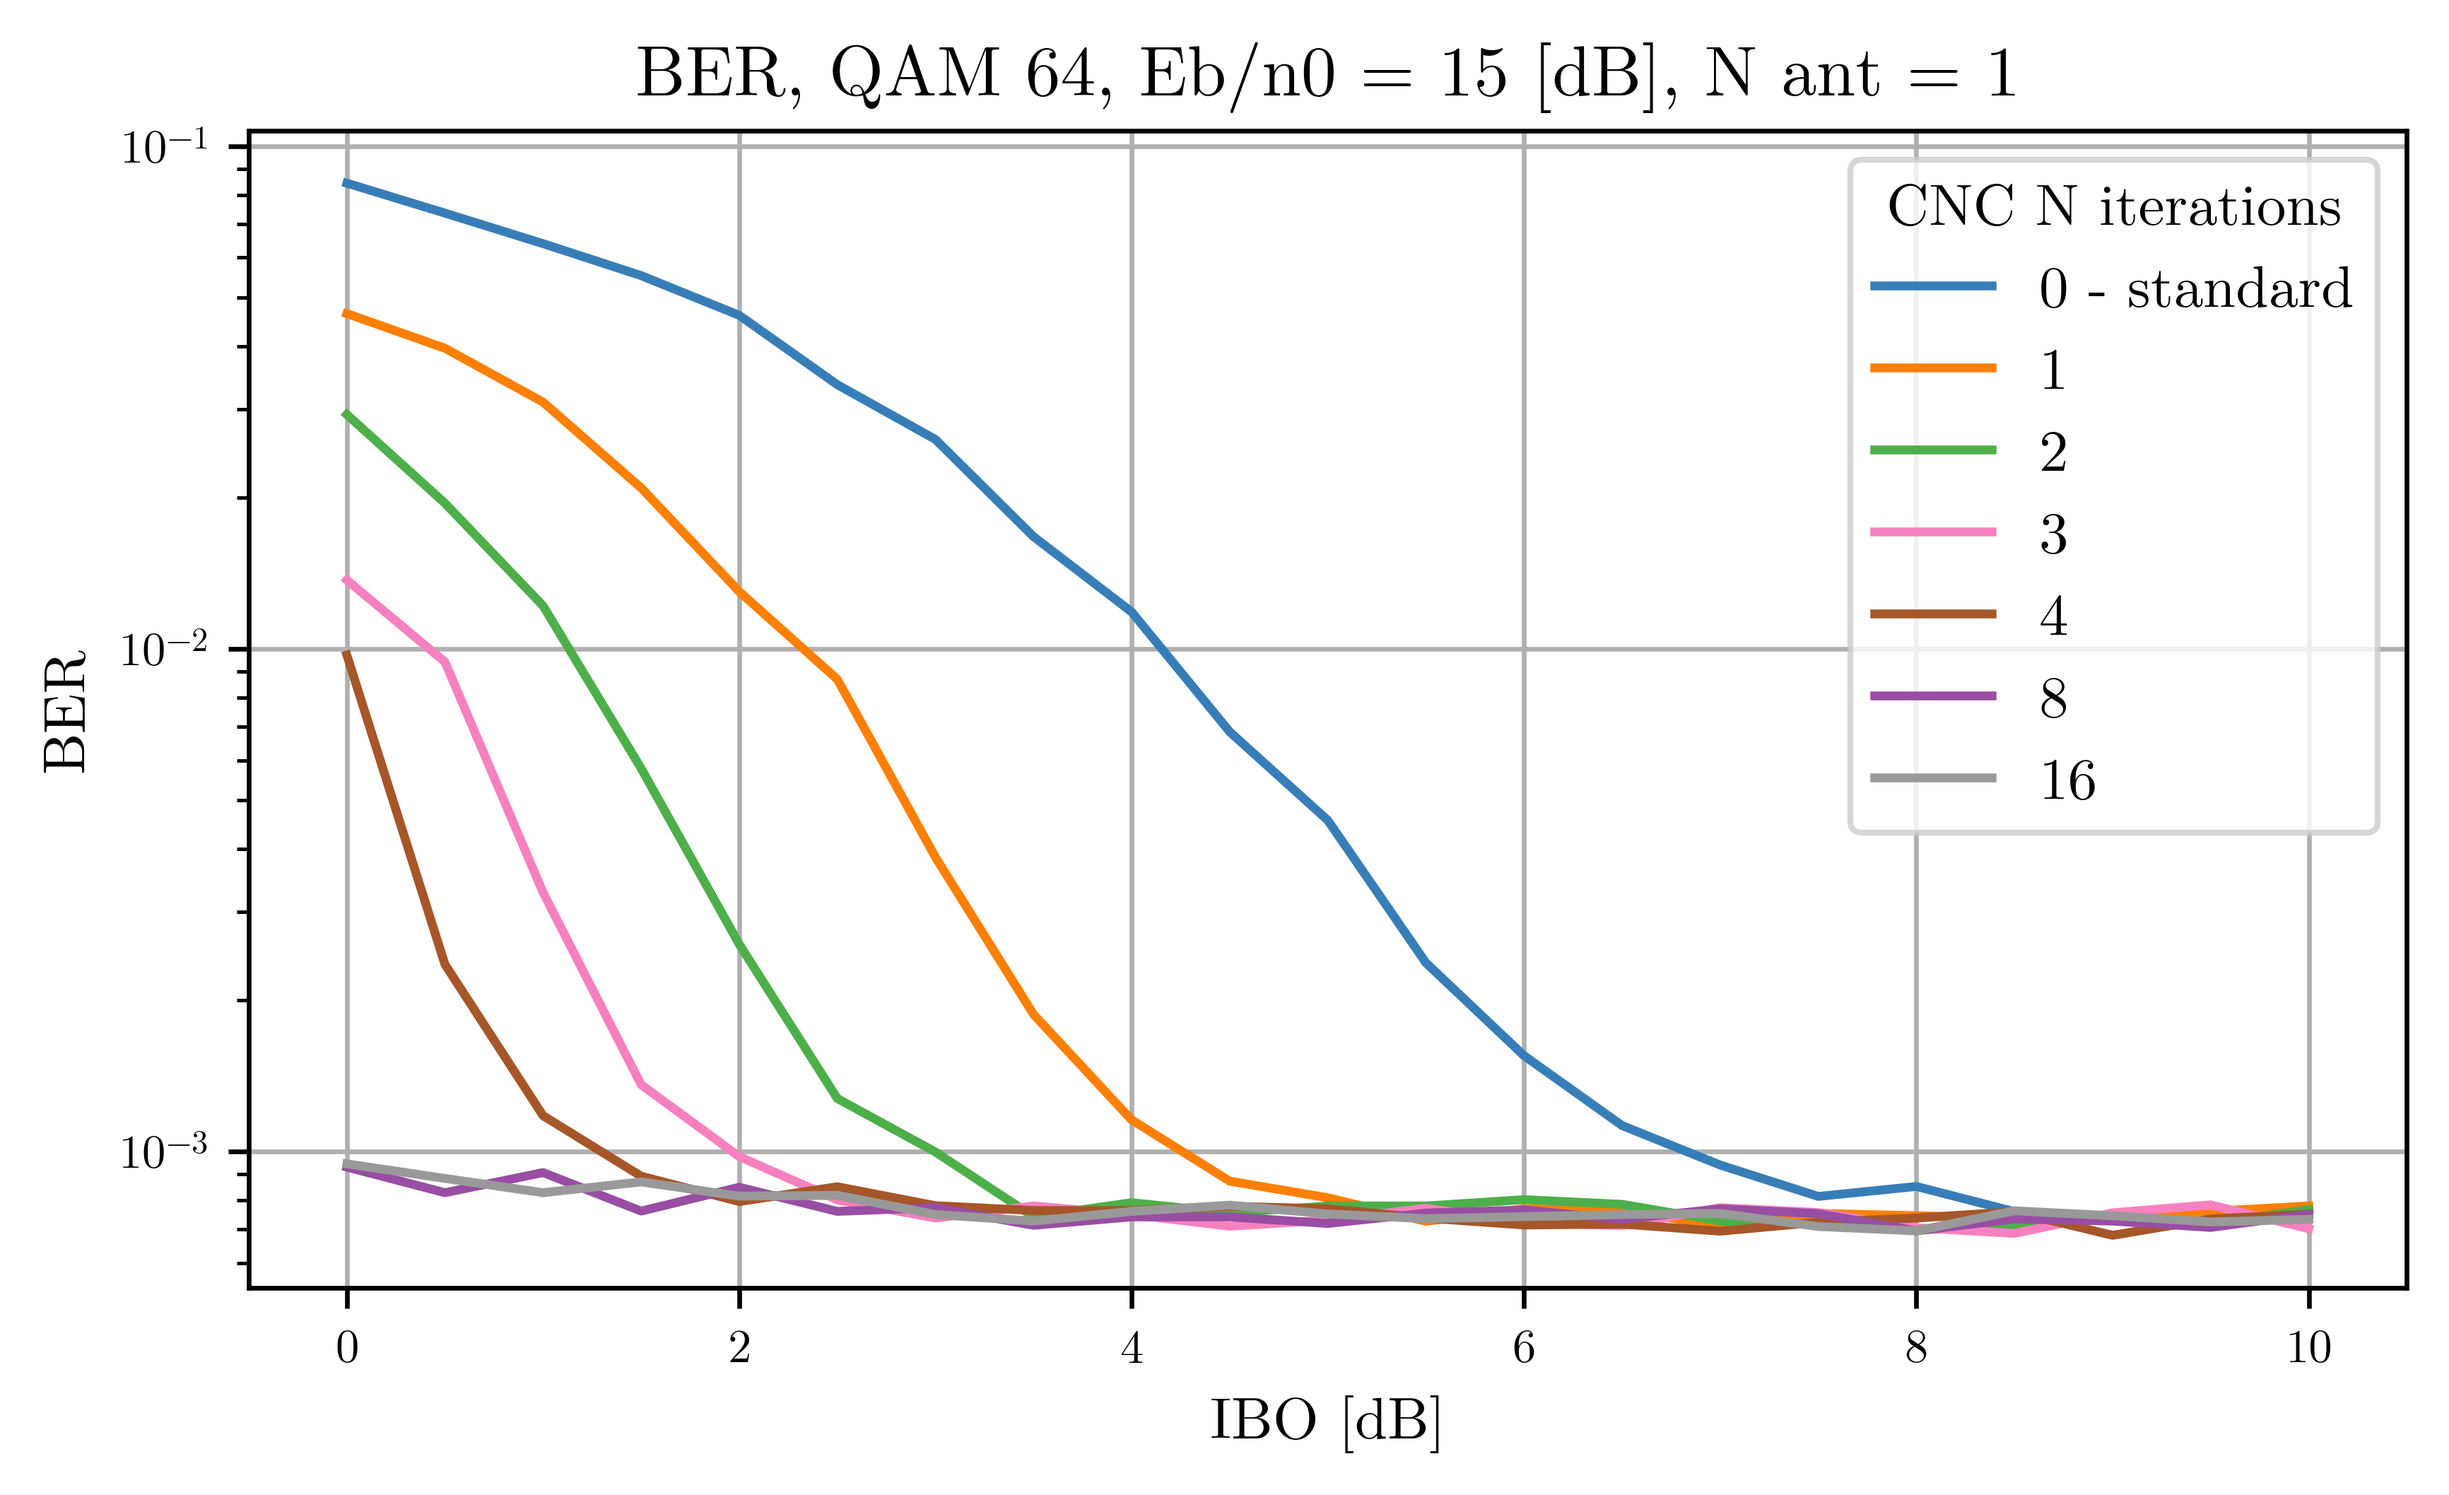
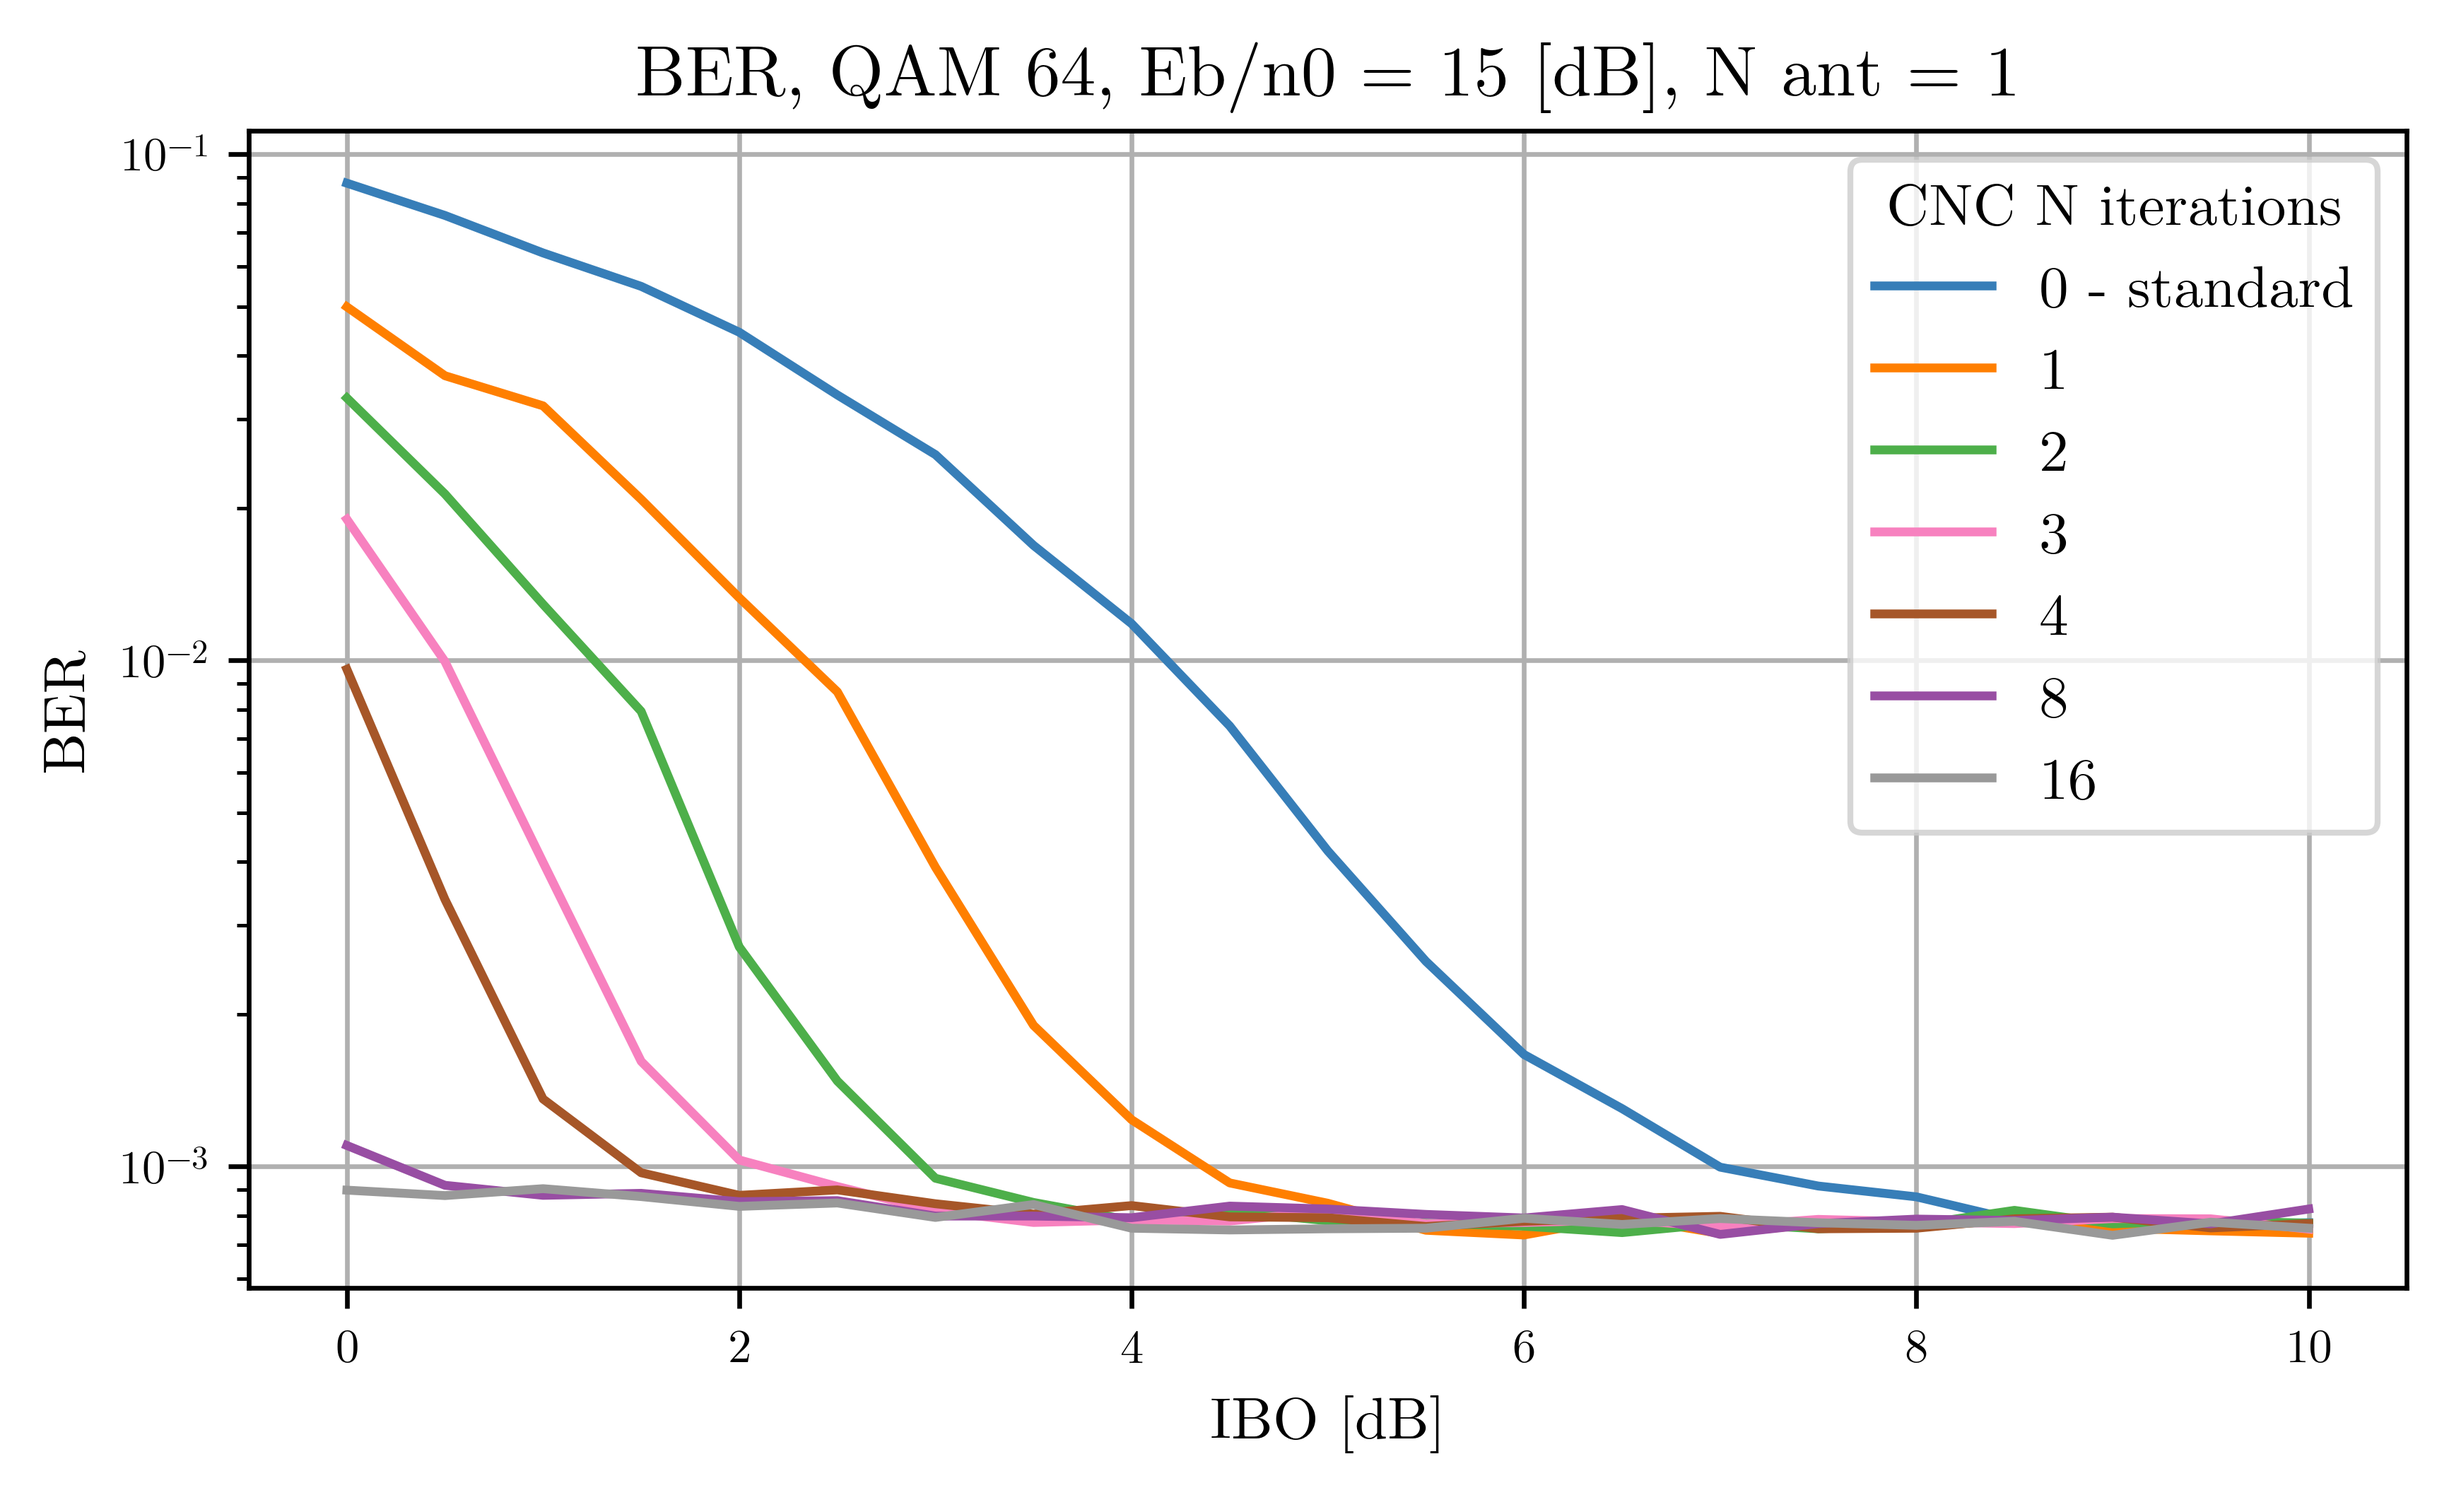
Exclude noise from lambda estimation, added plots ber vs ibo, snr vs ibo for constant ber

diff --git a/main_miso_cnc_constant_ber_req_ebn0_vs_ibo_eval.py b/main_miso_cnc_constant_ber_req_ebn0_vs_ibo_eval.py
@@ -1,0 +1,213 @@
+# antenna array evaluation
+# %%
+import copy
+import time
+from datetime import datetime
+
+import matplotlib.pyplot as plt
+import numpy as np
+import torch
+from scipy.signal import welch
+
+import antenna_arrray
+import channel
+import corrector
+import distortion
+import modulation
+import noise
+import transceiver
+import utilities
+from plot_settings import set_latex_plot_style
+from utilities import count_mismatched_bits, ebn0_to_snr, to_db, td_signal_power, to_time_domain
+from scipy import interpolate
+# TODO: consider logger
+
+set_latex_plot_style()
+# %%
+print("Multi antenna processing init!")
+# remember to copy objects not to avoid shared properties modifications!
+# check modifications before copy and what you copy!
+my_mod = modulation.OfdmQamModem(constel_size=64, n_fft=4096, n_sub_carr=1024, cp_len=128)
+my_distortion = distortion.SoftLimiter(ibo_db=5, avg_samp_pow=my_mod.avg_sample_power)
+my_tx = transceiver.Transceiver(modem=copy.deepcopy(my_mod), impairment=copy.deepcopy(my_distortion), center_freq=int(3.5e9),
+                                carrier_spacing=int(15e3))
+my_rx = transceiver.Transceiver(modem=copy.deepcopy(my_mod), impairment=None, cord_x=100, cord_y=100, cord_z=1.5,
+                                center_freq=int(3.5e9), carrier_spacing=int(15e3))
+
+my_miso_chan = channel.MisoTwoPathFd()
+my_noise = noise.Awgn(snr_db=20, noise_p_dbm=-90, seed=1234)
+my_cnc_rx = corrector.CncReceiver(copy.deepcopy(my_mod), copy.deepcopy(my_distortion))
+
+# %%
+# Upsample ratio eval, number of iterations fixed
+# arbitrarly set params:
+n_ant_val = 1
+ebn0_db_vals = np.arange(10, 31, 2)
+
+print("Eb/n0 values:", ebn0_db_vals)
+snr_db_vals = ebn0_to_snr(ebn0_db_vals, my_mod.n_fft, my_mod.n_sub_carr, my_mod.constel_size)
+print("SNR value:", snr_db_vals)
+
+cnc_n_iter_vals = [0,1,2,4]
+print("CNC N iterations:", cnc_n_iter_vals)
+cnc_n_upsamp_val = 4
+print("CNC upsample factor:", cnc_n_upsamp_val)
+
+ibo_arr = np.arange(0, 6, 0.25)
+print("IBO values:", ibo_arr)
+
+# BER accuracy settings
+bits_sent_max = int(1e6)
+n_err_min = 1000
+
+abs_lambda_per_ibo = np.zeros(len(ibo_arr))
+ber_per_ibo_snr_iter = np.zeros((len(ibo_arr), len(snr_db_vals), len(cnc_n_iter_vals)))
+
+my_array = antenna_arrray.LinearArray(n_elements=n_ant_val, base_transceiver=my_tx, center_freq=int(3.5e9),
+                                      wav_len_spacing=0.5,
+                                      cord_x=0, cord_y=0, cord_z=15)
+
+my_miso_chan.calc_channel_mat(tx_transceivers=my_array.array_elements, rx_transceiver=my_rx, skip_attenuation=False)
+
+chan_mat_at_point = my_miso_chan.get_channel_mat_fd()
+my_array.set_precoding_matrix(channel_mat_fd=chan_mat_at_point, mr_precoding=True)
+
+# %%
+# lambda estimation phase
+for ibo_idx, ibo_val_db in enumerate(ibo_arr):
+    start_time = time.time()
+    print("--- Start time: %s ---" % datetime.now().strftime('%Y-%m-%d %H:%M:%S'))
+
+    my_array.update_distortion(ibo_db=ibo_val_db, avg_sample_pow=my_mod.avg_sample_power,
+                               channel_mat_fd=chan_mat_at_point)
+    # correct avg sample power in nonlinearity after precoding
+
+    # estimate lambda correcting coefficient
+    # same seed is required
+    bit_rng = np.random.default_rng(4321)
+    dist_rx_pow_coeff = (np.abs(my_mod.calc_alpha(ibo_val_db))) ** 2
+
+    n_ofdm_symb = 1e3
+    ofdm_symb_idx = 0
+    lambda_numerator_vecs = []
+    lambda_denominator_vecs = []
+    while ofdm_symb_idx < n_ofdm_symb:
+        tx_bits = bit_rng.choice((0, 1), my_tx.modem.n_bits_per_ofdm_sym)
+        tx_ofdm_symbol_fd, clean_ofdm_symbol_fd = my_array.transmit(tx_bits, out_domain_fd=True, return_both=True)
+
+        rx_sig_fd = my_miso_chan.propagate(in_sig_mat=tx_ofdm_symbol_fd)
+        rx_sig_clean_fd = my_miso_chan.propagate(in_sig_mat=clean_ofdm_symbol_fd)
+
+        clean_nsc_ofdm_symb_fd = np.concatenate(
+            (rx_sig_clean_fd[-my_mod.n_sub_carr // 2:], rx_sig_clean_fd[1:(my_mod.n_sub_carr // 2) + 1]))
+        rx_nsc_ofdm_symb_fd = np.concatenate(
+            (rx_sig_fd[-my_mod.n_sub_carr // 2:], rx_sig_fd[1:(my_mod.n_sub_carr // 2) + 1]))
+
+        lambda_numerator_vecs.append(np.multiply(rx_nsc_ofdm_symb_fd, np.conjugate(clean_nsc_ofdm_symb_fd)))
+        lambda_denominator_vecs.append(np.multiply(clean_nsc_ofdm_symb_fd, np.conjugate(clean_nsc_ofdm_symb_fd)))
+
+        ofdm_symb_idx += 1
+
+        # calculate lambda estimate
+    lambda_num = np.average(np.vstack(lambda_numerator_vecs), axis=0)
+    lambda_denum = np.average(np.vstack(lambda_denominator_vecs), axis=0)
+    abs_lambda_per_ibo[ibo_idx] = np.abs(np.average(lambda_num / lambda_denum))
+
+    print("--- Computation time: %f ---" % (time.time() - start_time))
+
+# %%
+# BER vs IBO eval
+for ibo_idx, ibo_val_db in enumerate(ibo_arr):
+    start_time = time.time()
+    print("--- Start time: %s ---" % datetime.now().strftime('%Y-%m-%d %H:%M:%S'))
+
+    my_array.update_distortion(ibo_db=ibo_val_db, avg_sample_pow=my_mod.avg_sample_power,
+                               channel_mat_fd=chan_mat_at_point)
+    for snr_idx, snr_val_db in enumerate(snr_db_vals):
+        my_noise.snr_db = snr_val_db
+
+        for iter_idx, cnc_iters_val in enumerate(cnc_n_iter_vals):
+            # same seed is required
+            # calculate BER based on channel estimate
+            bit_rng = np.random.default_rng(4321)
+            bers = np.zeros([len(cnc_n_iter_vals)])
+            my_noise.snr_db = snr_val_db
+            n_err = 0
+            bits_sent = 0
+            while bits_sent < bits_sent_max and n_err < n_err_min:
+                tx_bits = bit_rng.choice((0, 1), my_tx.modem.n_bits_per_ofdm_sym)
+                tx_ofdm_symbol_fd, clean_ofdm_symbol_fd = my_array.transmit(tx_bits, out_domain_fd=True, return_both=True)
+
+                rx_sig_fd = my_miso_chan.propagate(in_sig_mat=tx_ofdm_symbol_fd)
+                rx_ofdm_symbol_fd = my_noise.process(rx_sig_fd, avg_sample_pow=my_mod.avg_sample_power*(abs_lambda_per_ibo[ibo_idx]**2), fixed_noise_power=False)
+
+                # enchanced CNC reception
+                rx_bits = my_cnc_rx.receive(n_iters=cnc_iters_val, upsample_factor=cnc_n_upsamp_val,
+                                            in_sig_fd=rx_ofdm_symbol_fd,
+                                            lambda_estimation=abs_lambda_per_ibo[ibo_idx])
+
+                n_bit_err = count_mismatched_bits(tx_bits, rx_bits)
+                bits_sent += my_mod.n_bits_per_ofdm_sym
+                n_err += n_bit_err
+            ber_per_ibo_snr_iter[ibo_idx, snr_idx, iter_idx] = n_err / bits_sent
+
+    print("--- Computation time: %f ---" % (time.time() - start_time))
+
+# %%
+#%%
+# extract SNR value providing given BER from collected data
+req_ebn0_per_ibo = np.zeros((len(cnc_n_iter_vals), len(ibo_arr)))
+target_ber = 1e-3
+plot_once = False
+for iter_idx, iter_val in enumerate(cnc_n_iter_vals):
+    for ibo_idx, ibo_val in enumerate(ibo_arr):
+        ber_per_ebn0 = ber_per_ibo_snr_iter[ibo_idx, :, iter_idx]
+        # investigate better interpolation options
+        interpol_func = interpolate.interp1d(ber_per_ebn0, ebn0_db_vals)
+        if ibo_val == 2 and iter_val == 0:
+            # ber vector
+            if plot_once:
+                fig1, ax1 = plt.subplots(1, 1)
+                ax1.set_yscale('log')
+                ax1.plot(ber_per_ebn0, ebn0_db_vals, label=iter_val)
+                ax1.plot(ber_per_ebn0, interpol_func(ber_per_ebn0), label=iter_val)
+
+                ax1.grid()
+                plt.tight_layout()
+                plt.show()
+                print("Required Eb/No:", interpol_func(target_ber))
+
+                fig2, ax2 = plt.subplots(1, 1)
+                ax2.set_yscale('log')
+                ax2.plot(ebn0_db_vals, ber_per_ebn0)
+
+                plot_once = False
+        try:
+            req_ebn0_per_ibo[iter_idx, ibo_idx] = interpol_func(target_ber)
+        except:
+            # value not found in interpolation, replace with inf
+            req_ebn0_per_ibo[iter_idx, ibo_idx] = np.inf
+
+
+# %%
+fig1, ax1 = plt.subplots(1, 1)
+for ite_idx, ite_val in enumerate(cnc_n_iter_vals):
+    #read by columns
+    if ite_idx == 0:
+        ite_val = "0 - standard"
+    ax1.plot(ibo_arr, req_ebn0_per_ibo[ite_idx,:], label=ite_val)
+
+ax1.set_title("BER = %1.1e, QAM %d, N ant = %d" % (target_ber, my_mod.constellation_size, n_ant_val))
+ax1.set_xlabel("IBO [dB]")
+ax1.set_ylabel("Eb/n0 [dB]")
+ax1.grid()
+ax1.legend(title="CNC N iterations")
+
+plt.tight_layout()
+plt.savefig(
+    "figs/constant_ber%1.0e_req_ebn0_vs_ibo%dto%d_soft_lim_miso_cnc_%dqam_%dnant.png" % (target_ber, min(ibo_arr), max(ibo_arr), my_mod.constel_size, n_ant_val),
+    dpi=600, bbox_inches='tight')
+plt.show()
+
+print("Finished execution!")
+

diff --git a/main_miso_cnc_ber_vs_ibo_eval.py b/main_miso_cnc_ber_vs_ibo_eval.py
@@ -59,7 +59,7 @@ print("IBO values:", ibo_arr)
 bits_sent_max = int(1e6)
 n_err_min = 1000
 
-lambda_per_ibo = []
+abs_lambda_per_ibo = []
 bers_per_ibo = np.zeros((len(cnc_n_iter_vals), len(ibo_arr)))
 
 # %%
@@ -82,9 +82,6 @@ for ibo_idx, ibo_val_db in enumerate(ibo_arr):
     # estimate lambda correcting coefficient
     # same seed is required
     bit_rng = np.random.default_rng(4321)
-    dist_rx_pow_coeff = (np.abs(my_mod.calc_alpha(ibo_val_db))) ** 2
-
-    my_noise.snr_db = snr_val_db
     n_ofdm_symb = 1e3
     ofdm_symb_idx = 0
     lambda_numerator_vecs = []
@@ -96,14 +93,10 @@ for ibo_idx, ibo_val_db in enumerate(ibo_arr):
         rx_sig_fd = my_miso_chan.propagate(in_sig_mat=tx_ofdm_symbol_fd)
         rx_sig_clean_fd = my_miso_chan.propagate(in_sig_mat=clean_ofdm_symbol_fd)
 
-        #perfect nonlinearity information - correct RX power by alpha to provide reliable SNR
-        rx_ofdm_symbol = my_noise.process(rx_sig_fd, avg_sample_pow=my_mod.avg_sample_power*dist_rx_pow_coeff, fixed_noise_power=False)
-        rx_ofdm_clean_symbol = my_noise.process(rx_sig_clean_fd, avg_sample_pow=my_mod.avg_sample_power, fixed_noise_power=False)
-
         clean_nsc_ofdm_symb_fd = np.concatenate(
-            (rx_ofdm_clean_symbol[-my_mod.n_sub_carr // 2:], rx_ofdm_clean_symbol[1:(my_mod.n_sub_carr // 2) + 1]))
+            (rx_sig_clean_fd[-my_mod.n_sub_carr // 2:], rx_sig_clean_fd[1:(my_mod.n_sub_carr // 2) + 1]))
         rx_nsc_ofdm_symb_fd = np.concatenate(
-            (rx_ofdm_symbol[-my_mod.n_sub_carr // 2:], rx_ofdm_symbol[1:(my_mod.n_sub_carr // 2) + 1]))
+            (rx_sig_fd[-my_mod.n_sub_carr // 2:], rx_sig_fd[1:(my_mod.n_sub_carr // 2) + 1]))
 
         lambda_numerator_vecs.append(np.multiply(rx_nsc_ofdm_symb_fd, np.conjugate(clean_nsc_ofdm_symb_fd)))
         lambda_denominator_vecs.append(np.multiply(clean_nsc_ofdm_symb_fd, np.conjugate(clean_nsc_ofdm_symb_fd)))
@@ -113,8 +106,7 @@ for ibo_idx, ibo_val_db in enumerate(ibo_arr):
         # calculate lambda estimate
     lambda_num = np.average(np.vstack(lambda_numerator_vecs), axis=0)
     lambda_denum = np.average(np.vstack(lambda_denominator_vecs), axis=0)
-    lambda_corr_estimate.append(lambda_num / lambda_denum)
-    lambda_per_ibo.append(lambda_corr_estimate)
+    abs_lambda_per_ibo.append(np.abs(np.average(lambda_num / lambda_denum)))
     print("--- Computation time: %f ---" % (time.time() - start_time))
 
 # %%
@@ -146,12 +138,12 @@ for ibo_idx, ibo_val_db in enumerate(ibo_arr):
             tx_ofdm_symbol_fd, clean_ofdm_symbol_fd = my_array.transmit(tx_bits, out_domain_fd=True, return_both=True)
 
             rx_sig_fd = my_miso_chan.propagate(in_sig_mat=tx_ofdm_symbol_fd)
-            rx_ofdm_symbol_fd = my_noise.process(rx_sig_fd, avg_sample_pow=my_mod.avg_sample_power*(np.abs(np.average(lambda_per_ibo[ibo_idx])))**2, fixed_noise_power=False)
+            rx_ofdm_symbol_fd = my_noise.process(rx_sig_fd, avg_sample_pow=my_mod.avg_sample_power*(abs_lambda_per_ibo[ibo_idx]**2), fixed_noise_power=False)
 
             # enchanced CNC reception
             rx_bits = my_cnc_rx.receive(n_iters=cnc_iters_val, upsample_factor=cnc_n_upsamp_val,
                                         in_sig_fd=rx_ofdm_symbol_fd,
-                                        lambda_estimation=np.abs(lambda_per_ibo[ibo_idx]))
+                                        lambda_estimation=abs_lambda_per_ibo[ibo_idx])
 
             n_bit_err = count_mismatched_bits(tx_bits, rx_bits)
             bits_sent += my_mod.n_bits_per_ofdm_sym
